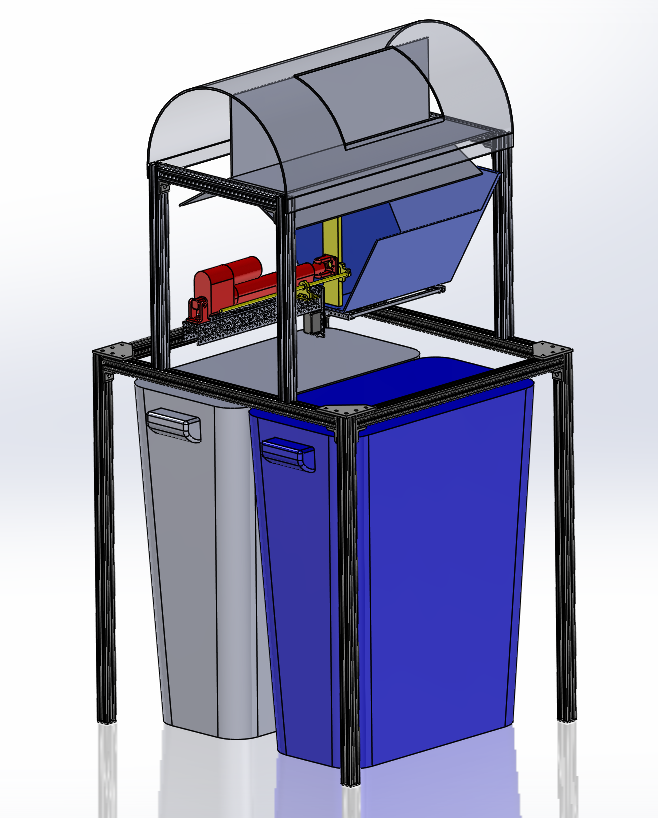
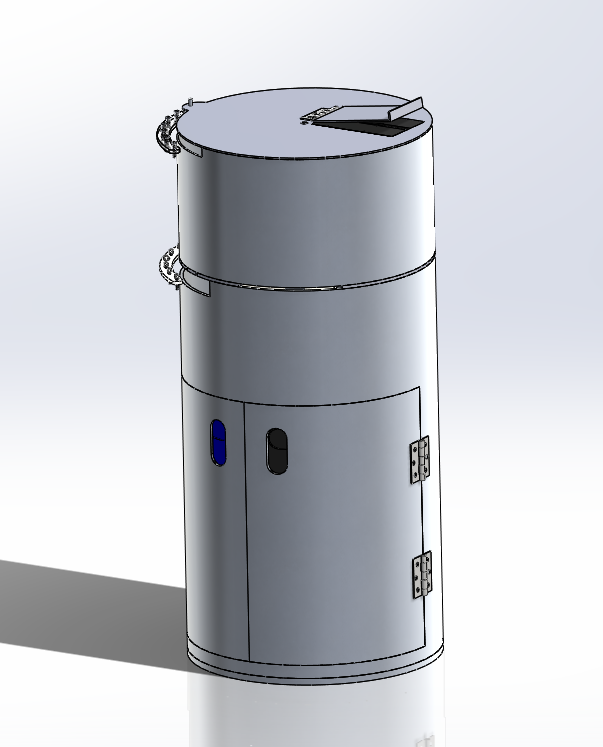
updated website 2/18

diff --git a/index.html b/index.html
@@ -56,8 +56,8 @@ Problem Description </h3>
 <b>High Level Requirements</b><br>
 SYS-R1. Device shall accept at least one trash object at a time, with the object minimum size as 2”x2”x1” and maximum size as 9”x6.5”x4”.  Objects are inserted by hand <br>
 SYS-R2. Trash input slot shall be at least 40” from base of device<br>
-SYS-R3. Device volume shall not exceed 42 gallons (5.6 cu. ft)<br>
-SYS-R4. Device shall contain two bins, each with at least 15 gallon (2 cu. ft) storage volume.  <br>
+SYS-R3. Device volume shall not exceed 80 gallons (10.7 cu. ft)<br>
+SYS-R4. Device shall contain two bins, each with at least 10 gallon (2 cu. ft) storage volume.  <br>
 SYS-R5. Device shall classify trash input into four categories. metal, plastic, glass, and other.  Accuracy of classification must be at least 85%.<br>
 SYS-R6. Device shall keep accurate count of classified trash items, and report the count to an untrained user.  <br>
 SYS-R7. Device shall store trash input into two categories. (metal, plastic, glass) and other.  Accuracy of sort/store must be at least 85%.  Other category includes non-rigid plastic with no recycling number, cement, wood, ceramics, clothes, cotton, socks, wool, cardboard, newspaper, books, magazines, and styrofoam.  <br>
@@ -80,21 +80,19 @@ SYS-R13. Device shall compress plastic and aluminum objects, but should not comp
   <br><br>
   <b>User Interface</b> |
   The clearest way to identify clear information was simply to use an LCD screen in order to list how many of each object was sorted. This was a pure design decision in order to make the user interface easier and more apparent. Buttons will also be used in order to have a clear start and reset to the characterization and/or compacting process and an emergency stop button in case there is an emergency. These decisions were based off of other large machinery with similar potential hazards to users.<br> <br>
-  <b>Input</b> | 
-  The infrastructure will be made of 80/20 aluminum to allow for adjustments throughout the semester. There will be two 15 gallon bins at the bottom to store the two categories of sorted trash. Our concept for the input of trash uses a revolving Y-shape that will be actively controlled. The Y shape would rotate to store items at the top or deposit trash into the sensing area. This design would require fewer servos and may save volume, but require more complex parts as well as making sure that parts do not fall through any cracks too early. <br> <br>
-  <b>Sorting</b> | Based off the flow chart below, the different sensors required to accurately sort are listed. Thus, we have decided to include four different sensors: mass sensor, inductance sensor, force gauge/pressure sensor (to be used with the hot punch), and an optical sensor. Each sensor serves a purpose to help distinguish a certain material. The mass sensor would first be used to help eliminate the possibility of plastic bags, pieces of paper, or other common wrapper items. From the three categories of recyclable materials, metal was the easiest to first distinguish with an inductance sensor. Next, the hot punch, which will be a device similar to a soldering iron on a actuator, which will use force to gauge the stress and strain of a material to distinguish between plastic and Styrofoam. Finally, the optical sensor is used to differentiate between glass and ceramics/tiles/concrete/paper. Since glass must be clear, the optical sensor would help detect the difference. <br>
+  <b>Input</b> | The trash input hole is roughly 40” off the ground with a door to ensure the user cannot put their hand into anything dangerous. Under the door are rubber flaps which leads to the first of four sensors in the input section. The rest of the input system is designed like a revolving door with four compartments which allow the trash to move through each of the sensing systems while allowing trash to be inputted at an average rate of one item per three seconds or faster. The revolving door will be actuated by a DC motor to push the trash through each compartment, the last of which includes a hole that will allow the trash to drop into the compacting/storing section depending on what the object has been categorized as. The image below depicts the four compartments with the different potential sensors.
+   <br> 
+     <a href="input.png"><img src="input.png" alt="input" name="input" style="border: 0px solid ;"></a> <br>  <br>
+  <b>Sorting</b> | Based off the flow chart below, the different sensors required to accurately sort are listed. Thus, we have decided to include four different sensors: mass sensor, inductance sensor, force gauge/pressure sensor (to be used with the hot wire), and an optical sensor. Each sensor serves a purpose to help distinguish a certain material. The mass sensor would first be used to help eliminate the possibility of plastic bags, pieces of paper, or other common wrapper items. From the three categories of recyclable materials, metal was the easiest to first distinguish with an inductance sensor. Next, the hot wire, which will be a device similar to a foam cutter on a actuator, which will use force to gauge the stress and strain of a material to distinguish between plastic and Styrofoam. Finally, the optical sensor is used to differentiate between glass and ceramics/tiles/concrete/paper. Since glass must be transparent, the optical sensor would help detect the difference. <br>
   <a href="functional.png"><img src="functional.png" alt="functional" name="functional" style="border: 0px solid ;"></a>
   <br>
   <br>
-  <b>Compacting</b> | Compacting will occur item-by-item based on decisions by the sorting algorithm. All items except glass and low-mass “other” materials (e.g. paper, plastic bags) will be compacted. The compacting assembly accepts items from the revolver input into the sorter and dumps them into either of the two bins.
-<br>
-
-The mass sensors will be placed upstream of the sorter so that low-mass “other” materials are directly sorted without compacting. The inductance sensor will also be upstream of the sorter. The optical sensor can be placed in a cut-out space on the bottom of the sorter; and the light can be mounted vertically above it. The hot punch will require its own secondary actuator and can be mounted on the same piece of aluminum channel as the linear actuator (red), or on the actuator itself.
-Once the mass and inductance tests are completed, and it is determined that the hot punch is required, the linear actuator advances the ram towards the item without compacting it. This secondary actuator then advances the hot punch into the item to perform the force test, and finally recedes. The optical test can be performed concurrently.
-
-<br><br>
-  <a href="compacting.gif"><img src="compacting.gif" alt="compacting" name="compacting" style="border: 0px solid ;"></a> <br>
-If the sorting algorithm decides that the item shall be compacted, the linear actuator will advance the ram further until the item is compacted. The ram will then recede, and the sorter will dump the item in the appropriate bin. If the sorting algorithm decides that the item shall not be compacted (i.e. glass), the ram will recede without compacting, and the sorter will similarly dump the item into the appropriate bin. <br>
+  <b>Compacting</b> | Compacting will be achieved using a high-torque DC motor that is mounted in the chamber below the sensing unit. The motor will be attached to a shaft that supports a plate that will rotate into a fixed wall. This moving portion will also have its own floor component in order to allow for the integration of compacting and dropping using one actuator. Items that are not compacted will drop into the bottom most chamber using this same mechanism. The bottom chamber will house the trash and recycling receptacle and also be able to rotate using a motor that drives a turntable-style setup. The rotation of this bottom segment allows for the simplification of the compacting chamber. The bins in this chamber are designed to be easily removable to improve the consumer experience.
+  <br>
+    <a href="compactot.png"><img src="compactor.png" alt="compactor" name="compactor" style="border: 0px solid ;"></a> <br>  
+ <br>
+ <br>
+ <b>Full System</b> | The image below shows the three sections together. The top segment for sensing, the middle section for compacting, and the bottom two doors is used to access the different bins.
   <a href="full_assembly.png"><img src="full_assembly.png" alt="full_assembly" name="full_assembly" style="border: 0px solid ;"></a> <br>  
   </p>
 
@@ -110,7 +108,7 @@ Based off the design requirements listed above, our team compiled a list of five
 <h3>
 <span aria-hidden="true" class="octicon octicon-link"></span></a>Cyberphysical Architecture </h3> 
 <p> 
-The cyberphysical architecture section will include how the power system and the different subsystems will interact with one another. In our cyberphysical architecture, we have decided to use two microcontrollers because one microcontroller did not offer us enough pins to ensure that we would not overload it. By splitting up the microcontroller, we have the majority of the main sensors on one microcontroller, with the other with auxiliary sensors and components. Each microcontroller will communicate with one another through UART and take either an analog or a digital input for the specified function. <br>
+The cyberphysical architecture section will include how the power system and the different subsystems will interact with one another. In our cyberphysical architecture, we have decided to use two microcontrollers because one microcontroller did not offer us enough pins to ensure that we would not overload it. By splitting up the microcontroller, we have the majority of the main sensors on one microcontroller, with the other with auxiliary sensors and components. Each microcontroller will communicate with one another through UART and take either an analog or a digital input for the specified function. In the image below, the number of pins required are labeled for each input. <br>
 
   <a href="electrical_block_diagram.png"><img src="electrical_block_diagram.png" alt="electrical_block_diagram" name="electrical_block_diagram" style="border: 0px solid ;"></a>
 </p>
@@ -155,33 +153,33 @@ The cyberphysical architecture section will include how the power system and the
                         <td>Mock-up Demo (M)
                         <br/>Sensors Demo (W)</td>
                         <td>Complete motor control lab
-                        <br/>Finalize CAD design</td>
-                        <td>- (Mock-up Demo)
-                        <br/>- (Sensors Demo)</td>
+                        <br/>Continue working on CAD design</td>
+                        <td>Sascha (Mock-up Demo)
+                        <br/>Nishant (Sensors Demo)</td>
                     </tr>
                     <tr>
                         <td>5</td>
                         <td>8-Feb</td>
                         <td>Motor Control Demo (W)</td>
                         <td>Esnure website is updated 
-                        <br/>Begin build of circuit
-                        <br/>Begin fabrication of frame</td>
-                        <td>-</td>
+                        <br/>Begin sensor testing
+                        <br/>Consider all physical models</td>
+                        <td>Jaime</td>
                     </tr>
                     <tr>
                         <td>6</td>
                         <td>15-Feb</td>
                         <td>System Demo #1 (W)
                         <br/>Website Check (F)</td>
-                        <td>Continue fabrication
-                        <br/>Continue circuit testing</td>
-                        <td>-</td>
+                        <td>Continue working on CAD design 
+                        <br/>Continue sensor testing</td>
+                        <td>Patricia</td>
                     </tr>
                     <tr>
                         <td>7</td>
                         <td>22-Feb</td>
                         <td>System Demo #2 (W)</td>
-                        <td>Complete prototype </td>
+                        <td>Finalize CAD model and begin BOM</td>
                         <td>-</td>
                     </tr>
                     <tr>
@@ -189,7 +187,7 @@ The cyberphysical architecture section will include how the power system and the
                         <td>29-Feb</td>
                         <td>Design Presentation (M)
                           <br>Peer evaluation #1 (Th)</td>
-                        <td>Ensure prototype is functional</td>
+                        <td>Begin assembly of prototype</td>
                         <td>-</td>
                     </tr>
                     <tr>
@@ -201,14 +199,14 @@ The cyberphysical architecture section will include how the power system and the
                         <td>10</td>
                         <td>14-Mar</td>
                         <td>System Demo #3 (W)</td>
-                        <td>Finish up PCB traces</td>
+                        <td>Begin up PCB traces</td>
                         <td>-</td>
                     </tr>
                     <tr>
                         <td>11</td>
                         <td>21-Mar</td>
                         <td>System Demo #4 (W)</td>
-                        <td>Test system</td>
+                        <td>Test physical system</td>
                         <td>-</td>
                     </tr>
                     <tr>
